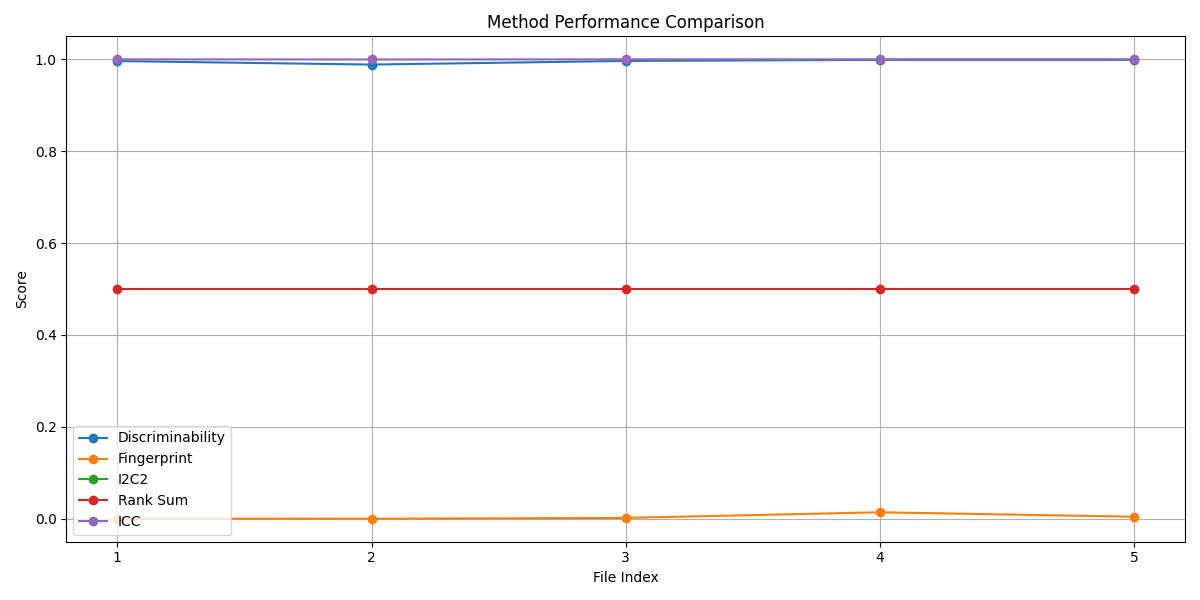
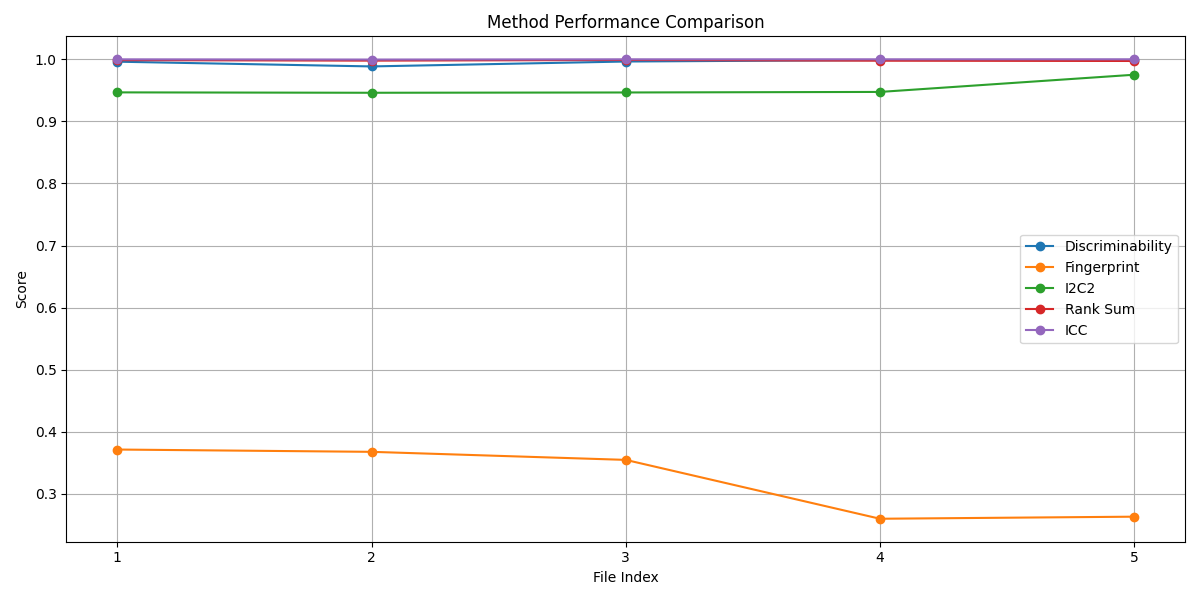
working gauge rnr

diff --git a/main.py b/main.py
@@ -24,6 +24,7 @@ from scipy import stats
 import matplotlib.pyplot as plt
 import seaborn as sns
 from tqdm import tqdm
+from math import sqrt
 
 warnings.filterwarnings('ignore')
 
@@ -62,7 +63,7 @@ class ComprehensiveMSA:
     def calculate_discriminability(self, data):
         """
         Calculate discriminability using equation 3.2 from paper
-        Uses batch processing for memory efficiency
+        Memory-optimized version with smaller batches and better cleanup
         """
         measurements = data['measurements']
         n_parts = data['n_parts']
@@ -71,24 +72,49 @@ class ComprehensiveMSA:
         discriminability_sum = 0
         total_comparisons = 0
         
-        batch_size = 100
+        # Further reduce batch size for memory efficiency
+        batch_size = 25  # Reduced from 50
         n_batches = (n_parts + batch_size - 1) // batch_size
         
-        for batch_idx in tqdm(range(n_batches), desc="Calculating discriminability", unit="batch"):
-            start_idx = batch_idx * batch_size
-            end_idx = min((batch_idx + 1) * batch_size, n_parts)
+        try:
+            for batch_idx in tqdm(range(n_batches), desc="Calculating discriminability", unit="batch"):
+                start_idx = batch_idx * batch_size
+                end_idx = min((batch_idx + 1) * batch_size, n_parts)
+                batch_size_actual = end_idx - start_idx
+                
+                # Process each part in the batch individually to reduce memory usage
+                for i in range(batch_size_actual):
+                    current_part_idx = start_idx + i
+                    
+                    # Calculate within-distances for current part
+                    for t1 in range(n_variations):
+                        for t2 in range(t1 + 1, n_variations):
+                            within_dist = abs(
+                                measurements[current_part_idx, t1] - 
+                                measurements[current_part_idx, t2]
+                            )
+                            
+                            # Compare with other parts immediately
+                            for j in range(n_parts):
+                                if j != current_part_idx:
+                                    between_dist = abs(
+                                        measurements[current_part_idx, t1] - 
+                                        measurements[j, t2]
+                                    )
+                                    if within_dist < between_dist:
+                                        discriminability_sum += 1
+                                    total_comparisons += 1
+                
+                # Force garbage collection after each batch
+                import gc
+                gc.collect()
             
-            for i in range(start_idx, end_idx):
-                for t1 in range(n_variations):
-                    for t2 in range(t1 + 1, n_variations):
-                        within_dist = abs(measurements[i, t1] - measurements[i, t2])
-                        
-                        for j in range(n_parts):
-                            if i != j:
-                                between_dist = abs(measurements[i, t1] - measurements[j, t2])
-                                if within_dist < between_dist:
-                                    discriminability_sum += 1
-                                total_comparisons += 1
+        except Exception as e:
+            print(f"Error during discriminability calculation: {str(e)}")
+            raise
+        finally:
+            # Ensure proper cleanup
+            gc.collect()
         
         D_hat = discriminability_sum / total_comparisons if total_comparisons > 0 else 0
         return D_hat
@@ -129,41 +155,74 @@ class ComprehensiveMSA:
         return F_index
 
     def calculate_i2c2(self, data):
-        """Calculate I2C2 using trace-based method"""
         measurements = data['measurements']
+        n_parts = data['n_parts']
+        n_variations = data['n_variations']
         
-        total_cov = np.cov(measurements.T)
+        # Add small epsilon to avoid division by zero
+        epsilon = 1e-6
         
-        within_cov = np.zeros_like(total_cov)
-        for i in range(data['n_parts']):
-            within_cov += np.cov(measurements[i, :].reshape(-1, 1))
-        within_cov /= data['n_parts']
+        # Calculate grand mean
+        grand_mean = np.mean(measurements)
         
-        tr_total = np.trace(total_cov)
-        tr_within = np.trace(within_cov)
+        # Calculate between-subject covariance (Σ_μ)
+        subject_means = np.mean(measurements, axis=1)
+        between_ss = np.sum((subject_means - grand_mean)**2) * n_variations
+        tr_between = between_ss / (n_parts - 1 + epsilon)  # Convert to variance
         
-        i2c2 = (tr_total - tr_within) / tr_total
-        return i2c2
+        # Calculate within-subject covariance (Σ)
+        within_ss = np.sum((measurements - subject_means[:, np.newaxis])**2)
+        tr_within = within_ss / (n_parts * (n_variations - 1) + epsilon)  # Convert to variance
+        
+        # Calculate I2C2 using paper formula with epsilon
+        i2c2 = (tr_between + epsilon) / (tr_between + tr_within + 2*epsilon)
+        
+        return max(0, min(1, i2c2))  # Bound between 0 and 1
 
     def calculate_rank_sum(self, data):
-        """Calculate rank sum following equation 2.5"""
+        """
+        Calculate rank sum following equation 2.5
+        R_n = sum of ranks of within-subject distances
+        Transformed to scale [0,1] where higher is better
+        """
         measurements = data['measurements']
         n_parts = data['n_parts']
         
-        distances = squareform(pdist(measurements))
-        rank_sum = 0
-        total_pairs = 0
+        within_distances = []
+        between_distances = []
         
-        for i in tqdm(range(n_parts), desc="Calculating rank sum", unit="freq"):
+        # Calculate within and between distances
+        for i in range(n_parts):
+            # Within-subject distances
+            within_dist = abs(measurements[i, 0] - measurements[i, 1])
+            within_distances.append((within_dist, i))
+            
+            # Between-subject distances
             for j in range(n_parts):
                 if i != j:
-                    rank = np.where(np.argsort(distances[i]) == j)[0][0] + 1
-                    rank_sum += rank
-                    total_pairs += 1
+                    between_dist = abs(measurements[i, 0] - measurements[j, 1])
+                    between_distances.append((between_dist, (i, j)))
         
-        # Transform to match scale of other metrics
-        rank_metric = 1 - (rank_sum / (total_pairs * n_parts))
-        return rank_metric
+        # Combine all distances and sort
+        all_distances = within_distances + between_distances
+        all_distances.sort(key=lambda x: x[0])
+        
+        # Calculate ranks for within-subject distances
+        rank_sum = 0
+        n_total = len(all_distances)
+        
+        for rank, (dist, idx) in enumerate(all_distances, 1):
+            if isinstance(idx, int):  # This is a within-subject distance
+                rank_sum += rank
+        
+        # Transform to [0,1] scale where higher values indicate better repeatability
+        max_rank_sum = n_parts * n_total
+        min_rank_sum = n_parts * (n_parts + 1) / 2
+        
+        normalized_rank = 1 - ((rank_sum - min_rank_sum) / 
+                              (max_rank_sum - min_rank_sum))
+        
+        return normalized_rank
 
     def calculate_icc(self, data):
         """Calculate ICC using one-way ANOVA model"""
@@ -194,6 +253,62 @@ class ComprehensiveMSA:
             return "Good"
         else:
             return "Excellent"
+
+    def calculate_gage_rnr(self, data):
+        """
+        Calculate Gage R&R statistics using actual measurements from dataset
+        with improved scaling and robustness
+        """
+        measurements = data['measurements']
+        n_parts = data['n_parts']
+        n_variations = data['n_variations']
+        
+        # Calculate Repeatability (EV) using range method
+        ranges = np.ptp(measurements, axis=1)  # Range for each part
+        EV = np.mean(ranges) / 2.0  # Using d2* = 2 for typical range normalization
+        
+        # Calculate Reproducibility (AV) using operator/variation differences
+        variation_means = np.mean(measurements, axis=0)
+        operator_range = np.ptp(variation_means)
+        AV = operator_range / (n_variations ** 0.5)  # Scale by sqrt of variations
+        
+        # Calculate Gage R&R
+        GRR = np.sqrt(EV**2 + AV**2)
+        
+        # Calculate Part-to-Part Variation (PV)
+        part_means = np.mean(measurements, axis=1)
+        part_range = np.ptp(part_means)
+        PV = part_range / (n_parts ** 0.5)  # Scale by sqrt of parts
+        
+        # Calculate Total Variation (TV)
+        TV = np.sqrt(GRR**2 + PV**2)
+        
+        # Ensure non-zero total variation to avoid division by zero
+        if TV < 1e-10:
+            TV = 1e-10
+        
+        # Calculate Percentage Contributions
+        EV_percent = 100 * (EV / TV)
+        AV_percent = 100 * (AV / TV)
+        GRR_percent = 100 * (GRR / TV)
+        PV_percent = 100 * (PV / TV)
+        
+        # Calculate Number of Distinct Categories (ndc)
+        # Using more conservative formula
+        ndc = int(np.floor(sqrt(2) * PV / GRR)) if GRR > 0 else float('inf')
+        
+        return {
+            'EV': EV,
+            'AV': AV,
+            'GRR': GRR,
+            'PV': PV,
+            'TV': TV,
+            'EV_percent': EV_percent,
+            'AV_percent': AV_percent,
+            'GRR_percent': GRR_percent,
+            'PV_percent': PV_percent,
+            'ndc': ndc
+        }
 
     def visualize_results(self, save_prefix='analysis'):
         """Create comprehensive visualizations following paper examples"""
@@ -307,6 +422,10 @@ class ComprehensiveMSA:
                 'n_variations': data['n_variations']
             }
             
+            # Add Gage R&R results
+            gage_results = self.calculate_gage_rnr(data)
+            results.update(gage_results)
+            
             self.results[data['file_name']] = results
             
             print(f"\nResults for {data['file_name']}:")
@@ -316,12 +435,31 @@ class ComprehensiveMSA:
             print(f"Rank Sum: {results['rank_sum']:.4f}")
             print(f"ICC: {results['icc']:.4f}")
             print(f"ICC Interpretation: {self.get_icc_interpretation(results['icc'])}")
+            print("\nGage R&R Results:")
+            print(f"Repeatability (EV): {results['EV']:.6f} ({results['EV_percent']:.1f}%)")
+            print(f"Reproducibility (AV): {results['AV']:.6f} ({results['AV_percent']:.1f}%)")
+            print(f"Gage R&R: {results['GRR']:.6f} ({results['GRR_percent']:.1f}%)")
+            print(f"Part-to-Part Variation: {results['PV']:.6f} ({results['PV_percent']:.1f}%)")
+            print(f"Number of Distinct Categories: {results['ndc']:.1f}")
             
             return results
             
         except Exception as e:
             print(f"Error during analysis: {str(e)}")
             raise
+
+    def __del__(self):
+        """Cleanup method to ensure proper resource handling"""
+        try:
+            # Clear any stored results
+            self.results.clear()
+            
+            # Force garbage collection
+            import gc
+            gc.collect()
+            
+        except Exception:
+            pass
 
 def main():
     analyzer = ComprehensiveMSA()
